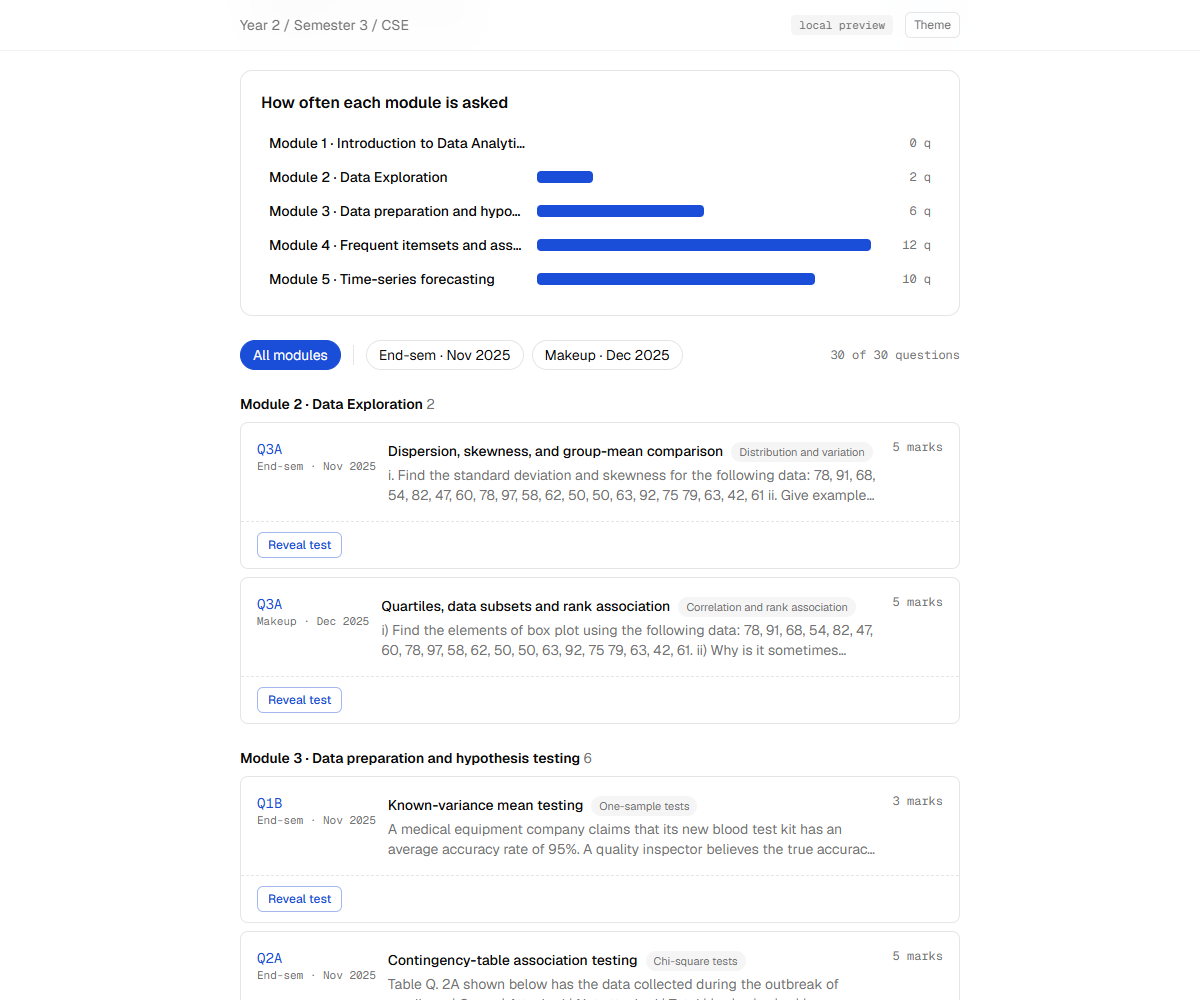
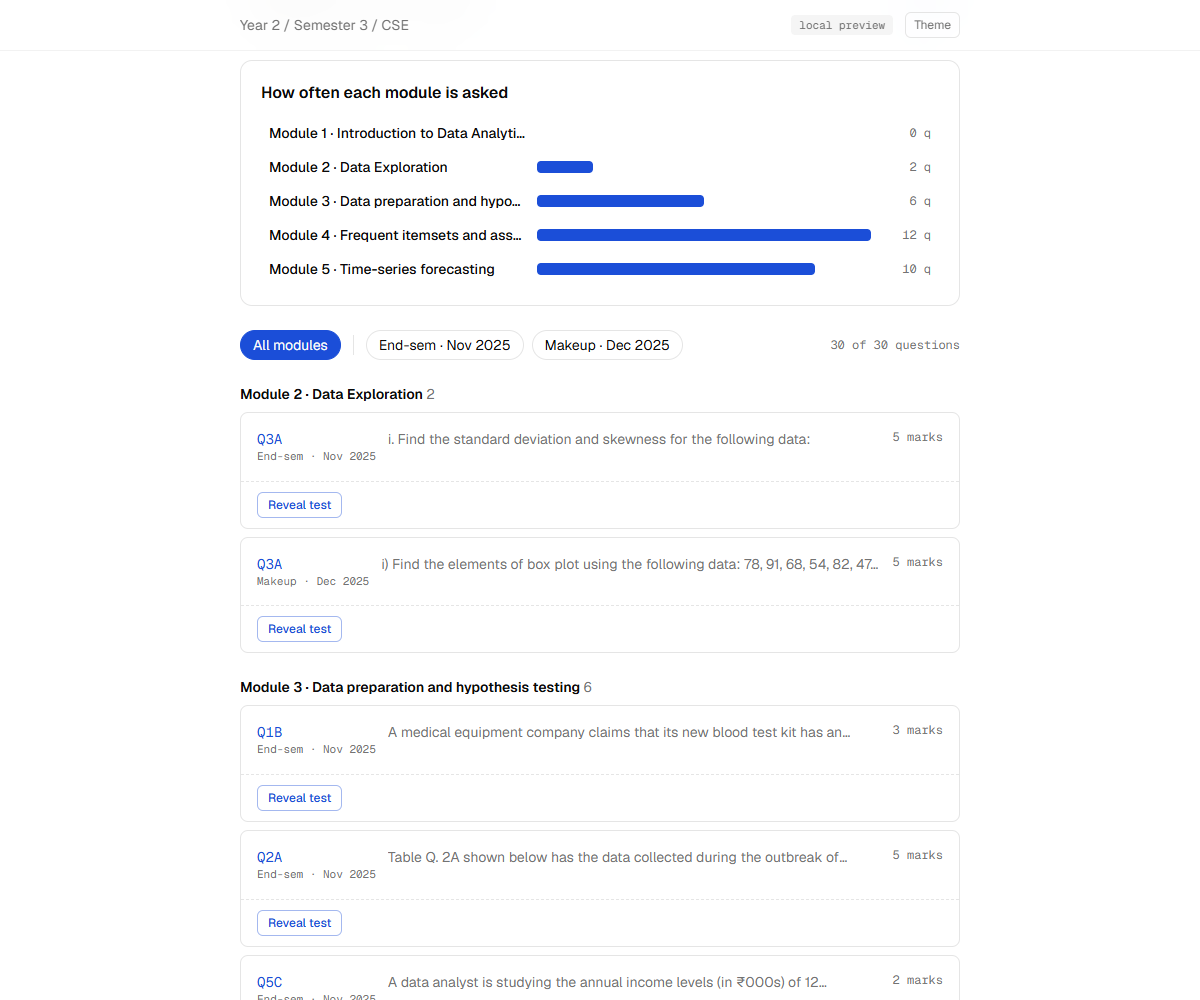
CSS 2103: hide topic and subtopic until Reveal test
Cards with a test hint no longer show the subtopic title or topic chip
up front, since they gave the method away. Reveal test now shows
'topic · subtopic' above the method and approach. CSS 2101 unchanged.

diff --git a/site/features/question-map/question-map.tsx b/site/features/question-map/question-map.tsx
@@ -201,13 +201,20 @@ function QuestionCard({ q, defaultOpen = false }: { q: Row; defaultOpen?: boolea
           Q{q.qno}
           <span className="block text-[11px] text-muted-foreground">{q.paperLabel}</span>
         </span>
-        <span className="min-w-0">
-          <span className="text-sm font-medium">{q.subtopic || q.topic}</span>
-          {q.module != null && q.subtopic && q.topic && (
-            <span className="ml-2 inline-block rounded-full bg-muted px-2 py-0.5 align-middle text-[11px] text-muted-foreground">{q.topic}</span>
-          )}
-          <span className="mt-0.5 line-clamp-2 text-sm text-muted-foreground group-open:hidden">{q.text}</span>
-        </span>
+        {q.method ? (
+          // Cards with a Reveal test hint show no topic or subtopic here, because those give the test away.
+          <span className="min-w-0">
+            <span className="line-clamp-1 text-sm text-muted-foreground group-open:hidden">{firstLine(q.text)}</span>
+          </span>
+        ) : (
+          <span className="min-w-0">
+            <span className="text-sm font-medium">{q.subtopic || q.topic}</span>
+            {q.module != null && q.subtopic && q.topic && (
+              <span className="ml-2 inline-block rounded-full bg-muted px-2 py-0.5 align-middle text-[11px] text-muted-foreground">{q.topic}</span>
+            )}
+            <span className="mt-0.5 line-clamp-2 text-sm text-muted-foreground group-open:hidden">{q.text}</span>
+          </span>
+        )}
         <span className="flex flex-col items-end gap-1">
           {q.difficulty && <span className={`rounded-full px-2 py-0.5 text-xs font-semibold ${DIFF_STYLE[q.difficulty].pill}`}>{q.difficulty}</span>}
           {q.marks != null && <span className="font-mono text-xs text-muted-foreground">{q.marks} marks</span>}
@@ -254,14 +261,19 @@ function QuestionCard({ q, defaultOpen = false }: { q: Row; defaultOpen?: boolea
     <div className="rounded-lg border border-border bg-card">
       {card}
       <div className="border-t border-dashed border-border px-3 py-2.5 sm:px-4">
-        <TestReveal method={q.method} approach={q.approach} />
+        <TestReveal method={q.method} approach={q.approach} topic={[q.topic, q.subtopic].filter(Boolean).join(" · ")} />
       </div>
     </div>
   );
 }
 
+/** First non-empty line of the question, skipping table rows, for the collapsed one-line preview. */
+function firstLine(text: string) {
+  return text.split("\n").find((l) => l.trim() && !TABLE_ROW.test(l))?.trim() ?? text;
+}
+
 /** Hint: which test or technique to use, with the approach in short. Not rendered until revealed. */
-function TestReveal({ method, approach }: { method: string; approach?: string }) {
+function TestReveal({ method, approach, topic }: { method: string; approach?: string; topic?: string }) {
   const [shown, setShown] = useState(false);
   const id = useId();
   return (
@@ -278,6 +290,7 @@ function TestReveal({ method, approach }: { method: string; approach?: string })
       <div id={id} hidden={!shown}>
         {shown && (
           <div className="max-w-prose rounded-md border border-dashed border-primary/40 bg-primary/5 px-3 py-2 text-sm">
+            {topic && <p className="mb-1 text-xs text-muted-foreground">{topic}</p>}
             <p className="font-semibold">{method}</p>
             {approach && <p className="mt-1 whitespace-pre-wrap break-words text-xs leading-relaxed text-muted-foreground">{approach}</p>}
           </div>

diff --git a/README.md b/README.md
@@ -51,11 +51,12 @@ tags, so the bars are single-colour and the difficulty chips are hidden.
 </table>
 
 **Practise one module.** Click a module's bar to see only that module's questions, opened and ready to try. Click the
-bar again or **All modules** to clear the selection; the paper chips still filter. Each card shows its topic as a small
-chip. **Reveal test** is a hint: it shows which test or technique to use, with the approach in smaller text. It is not
-a worked answer and gives no final numbers. Tables in the question text render as real tables.
+bar again or **All modules** to clear the selection; the paper chips still filter. A card shows only the question
+number, paper, marks and question text, because the topic would give the test away. **Reveal test** is a hint: it shows
+the topic and subtopic, then which test or technique to use, with the approach in smaller text. It is not a worked
+answer and gives no final numbers. Tables in the question text render as real tables.
 
-<img src="docs/screenshots/07-css2103-reveal-test.png" alt="Module 3 selected: 6 of 30 questions; question 1B open with Reveal test pressed, showing Two-tailed one-sample z-test and a short approach">
+<img src="docs/screenshots/07-css2103-reveal-test.png" alt="Module 3 selected: 6 of 30 questions; question 1B open with Reveal test pressed, showing the topic, Two-tailed one-sample z-test and a short approach">
 
 <table>
   <tr>

diff --git a/MERGE.md b/MERGE.md
@@ -52,8 +52,9 @@ What changed inside the folder:
   - When the questions carry a `module`, the topic map becomes a module map. There is one bar per module, labelled
     "Module N · title" with its question count.
   - Clicking a bar shows only that module's questions. Clicking it again, or the **All modules** chip, clears it.
-  - Each card shows its topic as a chip, and has a **Reveal test** button. It is a hint that shows `method`, with
-    `approach` below in smaller text, and stays hidden until pressed.
+  - Each card has a **Reveal test** button. It is a hint that shows `topic · subtopic`, then `method`, with
+    `approach` below in smaller text, and stays hidden until pressed. Cards with a `method` show no topic or
+    subtopic in the card head, so the hint is not given away.
   - Markdown pipe tables in the question text render as tables.
   - When a subject has no difficulty tags, the bars are single-colour and the difficulty chips are hidden.
   - CSS 2101 renders exactly as before.
